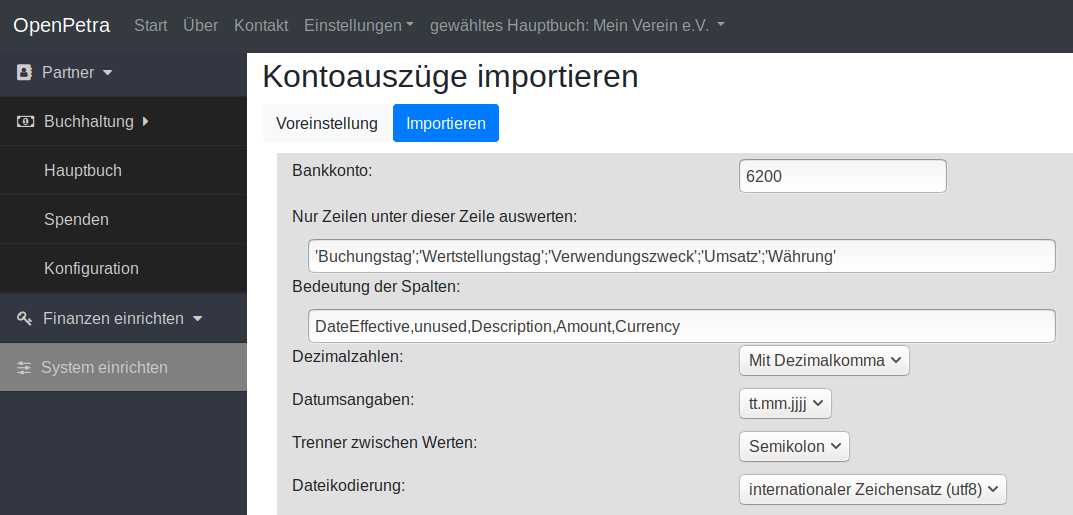
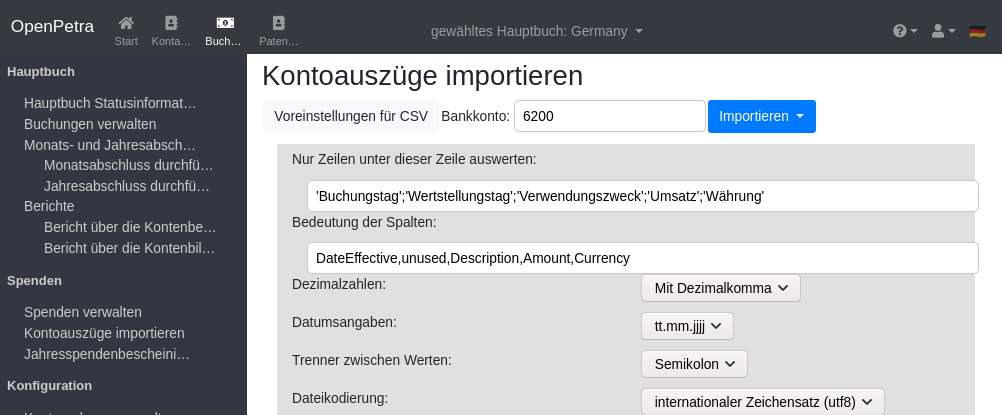
improve doc about bankimport CAMT and MT940 and CSV

diff --git a/source/howtos/finance-donations.rst b/source/howtos/finance-donations.rst
@@ -109,21 +109,33 @@ Erfassen von Spenden mithilfe von Kontoauszug
 
 Es ist zu empfehlen, nicht jede Spende von Hand einzugeben.
 
-Jede Bank bietet es an, den Kontoauszug im CSV oder CAMT Format herunterzuladen.
+Jede Bank bietet es an, den Kontoauszug im CSV oder CAMT Format herunterzuladen. Evtl. ist auch noch das MT940 Format verbreitet.
 
-Momentan unterstützt OpenPetra nur die Verarbeitung im CSV Format,
-aber die Unterstützung für CAMT ist schon im Prinzip fertig, und kann im Bedarfsfall freigeschaltet werden.
+OpenPetra unterstützt die Verarbeitung im CSV Format und MT940 Format.
+CAMT wird unterstützt, und wird empfohlen, da es zukunftssicher ist.
+Es wird sowohl der Import von CAMT.052 als auch CAMT.053 unterstützt, und man kann ebenfalls ZIP Dateien importieren, die mehrere CAMT Dateien enthalten.
 
-Man muss beim ersten Mal ein paar Einstellungen vornehmen, da jede Bank die CSV Datei etwas anders gestaltet. Dazu auf den Schalter 'Voreinstellung' klicken.
+.. _figure-bankimport_import:
+
+.. figure:: images/bankimport_import.png
+   :scale: 50%
+
+   Importieren als CSV Datei, CAMT Datei oder MT940 Datei
+
+Import von CSV Dateien
+----------------------
+
+Beim Importieren von CAMT oder MT940 muss man keine Einstellungen vornehmen, das ist also viel einfacher und daher zu empfehlen.
+
+Für den Import von CSV Dateien klicken Sie bitte auf den Schalter "Voreinstellungen für CSV", und gelangen in diese Ansicht.
+Diese Einstellungen muss man nur beim ersten Mal vornehmen, da jede Bank die CSV Datei etwas anders gestaltet.
 
 .. _figure-bankimport_settings:
 
 .. figure:: images/bankimport_settings.png
    :scale: 50%
 
-   Voreinstellungen für Kontoauszüge
-
-Das Bankkonto ist ein Konto, auf dem die Spenden eingehen, und der Kontoauszug bezieht sich auf dieses Konto.
+   Voreinstellungen für Kontoauszüge im CSV Format
 
 Nur Zeilen unter dieser Zeile auswerten: Hier geht es um die Zeile, ab der die eigentlichen Transaktionen verarbeitet werden sollen,
 also meistens die Zeile mit den Überschriften der Spalten.
@@ -143,7 +155,7 @@ Der Trenner zwischen den Werten ist üblicherweise das Semikolon, kann aber auch
 Der Zeichensatz kann auch noch Latin-1 sein, auch wenn der UTF-8 Zeichensatz zeitgemäßer ist.
 Das erkennen Sie daran, dass die Umlaute falsch dargestellt werden. Dann probieren Sie einfach den anderen Zeichensatz.
 
-Dann auf den Schalter 'Als Voreinstellung speichern' klicken, und dann kann man wieder auf den Schalter 'Voreinstellung' klicken, um die Einstellungen verschwinden zu lassen.
+Dann auf den Schalter 'Als Voreinstellung speichern' klicken, und dann kann man wieder auf den Schalter 'Voreinstellungen für CSV' klicken, um die Einstellungen verschwinden zu lassen.
 
 Nun auf den Schalter 'Importieren' klicken, und den aktuellen Kontoauszug als CSV Datei vom lokalen Rechner wählen. Es wird automatisch der aktuelle Monat erkannt, und Kontobewegungen vom Ende des Vormonats oder vom ersten des Folgemonats werden ignoriert.
 
@@ -166,7 +178,24 @@ Eine Beispiel-Datei kann so aussehen: (auch zum Download zu finden: https://gith
    "30.07.2019";"30.07.2019";"Arno Grosse SEPA-ÜBERWEISUNG SVWZ+ RINP Dauerauftrag S pende EREF+ 000000000000000 00002";"10,00";"EUR";""
    "* noch nicht ausgeführte Umsätze"
 
-Man kann noch die Auswahl treffen bei 'Status', ob man alle Transaktionen sehen will, oder nur die erkannten Spenden, usw.
+Beispieldatei für CAMT
+----------------------
+
+Eine Beispiel-Datei kann hier heruntergeladen werden: https://github.com/openpetra/openpetra/blob/master/csharp/ICT/Testing/lib/MFinance/server/BankImport/camt_testfile.52.xml
+
+
+Beispieldatei für MT940
+-----------------------
+
+Eine Beispiel-Datei kann hier heruntergeladen werden: https://github.com/openpetra/openpetra/blob/master/csharp/ICT/Testing/lib/MFinance/server/BankImport/mt940test.sta
+
+
+Importieren von Kontoauszügen
+-----------------------------
+
+Für alle Dateiformate gilt: Es muss das Bankkonto gewählt werden. Das ist das Konto, auf dem die Spenden eingehen, und der Kontoauszug bezieht sich auf dieses Konto.
+
+Nachdem die Datei importiert wurde, kann man noch die Auswahl treffen bei 'Status', ob man alle Transaktionen sehen will, oder nur die erkannten Spenden, usw.
 Dann auf den Schalter 'Anzeigen' klicken. 
 
 Das sieht im Beispiel dann so aus:
@@ -177,6 +206,9 @@ Das sieht im Beispiel dann so aus:
    :scale: 50%
 
    Ansicht der Kontobewegungen
+
+Kontobewegungen bearbeiten
+--------------------------
 
 Nun kann man eine Kontobewegung bearbeiten, und zuweisen, ob diese als Spende verarbeitet werden soll. Man weist den Spender zu, und den Verwendungszweck.
 
